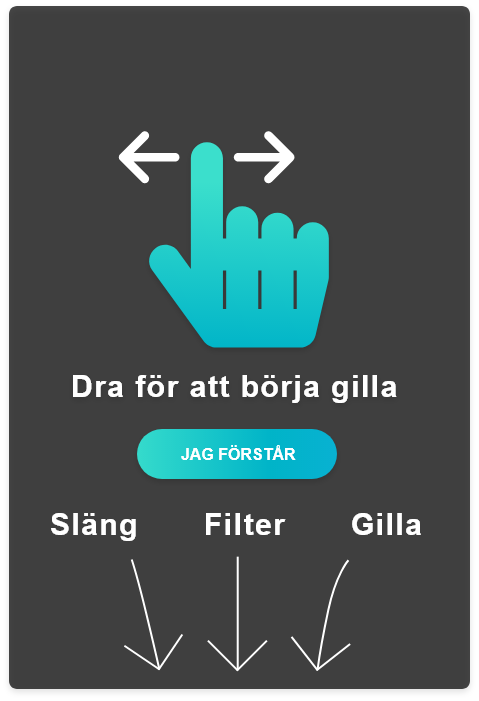
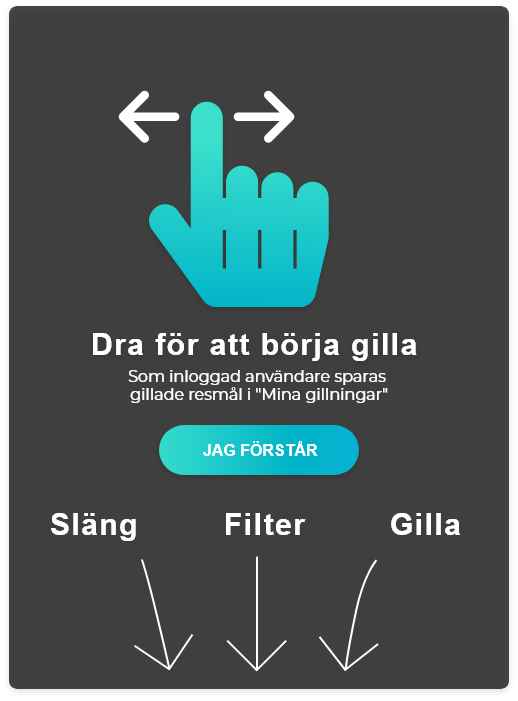
Förbättrat användbarheten
Fixat beskrivning för nya användare på förstasidan och lagt till att man måste vara inloggad för att se "mina gillningar"

diff --git a/HittaResa/website/templates/gillar.html b/HittaResa/website/templates/gillar.html
@@ -75,6 +75,11 @@
         
         <h3 style="text-align: left; padding-bottom: 20px;">Senast gillade</h3>
 
+        {% if current_user.is_active %}
+        {% else %}
+        <h5 style="text-align: left;">Du måste vara inloggad för att se dina gillade resmål.</h5>
+        {% endif %}
+
         <!--Här ligger de olika resmålen som användaren har gillat-->
         <div class="row">
           {%for i in range(0, content|length, 1):%}
